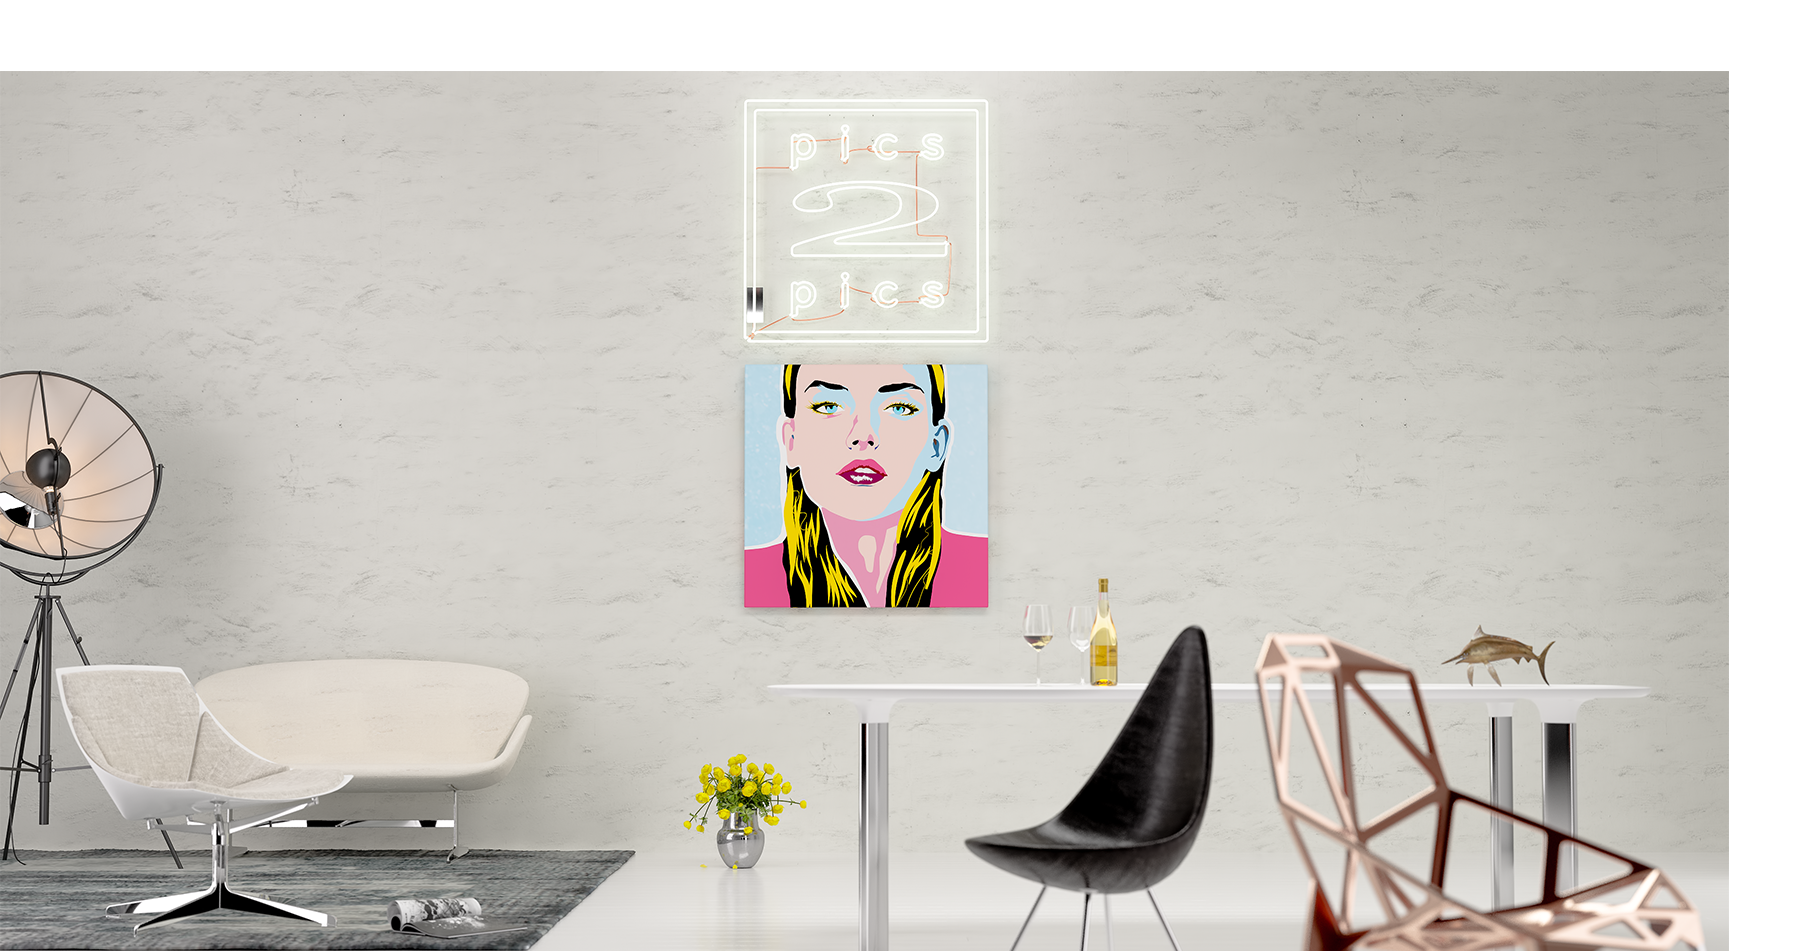
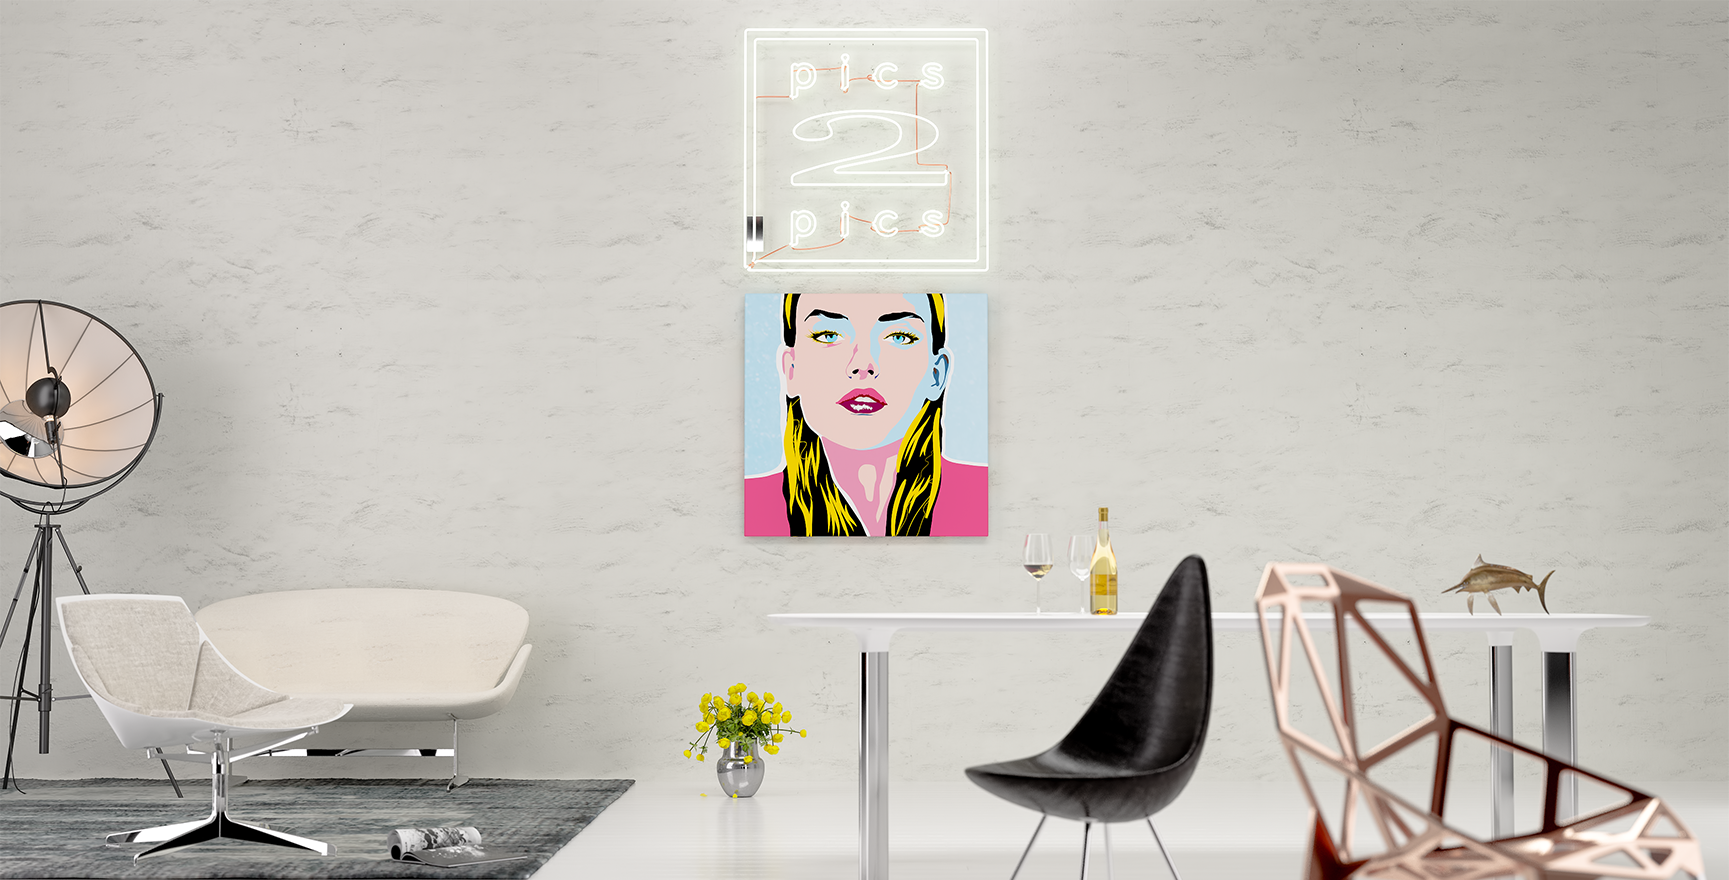
отцентровал бэк

Changed region(s): [[0.0, 0.0, 1.0, 1.0], [0.2811, 0.7057, 0.3123, 0.7977]]

diff --git a/www/new3/css/style.css b/www/new3/css/style.css
@@ -505,7 +505,8 @@ body{ margin: 0; min-width: 1300px; }
     left: 0;
     right: 0;
     bottom: 0;
-    width: 100%;
+    width: auto;
+    height: auto;
     background-position: center;
     background-repeat: no-repeat;
     background-size: cover;
